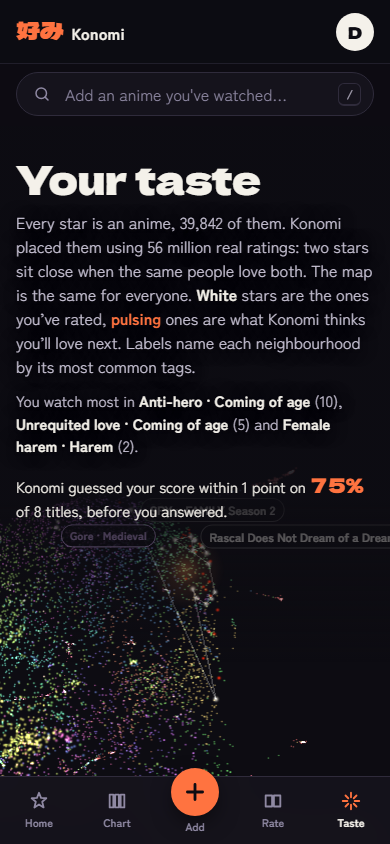
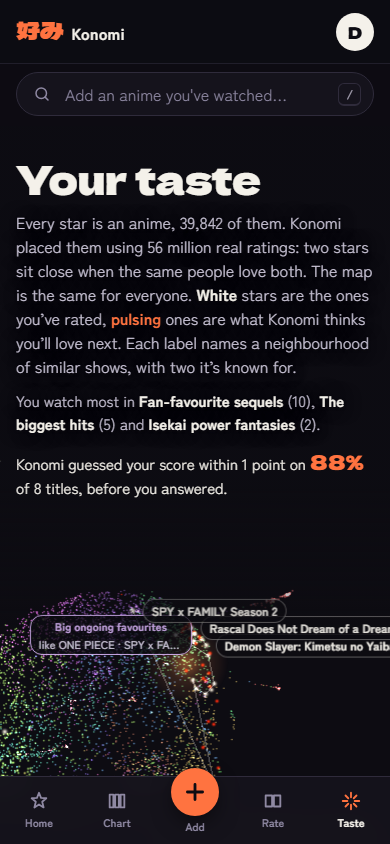
Galaxy: one click opens one title; plain neighbourhood names with examples

Changed region(s): [[0.0, 0.4005, 1.0, 0.9242], [0.9231, 0.4005, 0.9538, 0.4313], [0.5846, 0.8318, 0.6154, 0.8626]]

diff --git a/web/src/features/taste/Galaxy.tsx b/web/src/features/taste/Galaxy.tsx
@@ -4,7 +4,7 @@ import { useEffect, useMemo, useRef, useState } from 'react'
 import * as THREE from 'three'
 
 export type Point = [id: number, x: number, y: number, z: number, cluster: number]
-export interface ClusterMeta { id: number; label: string; tags: string[]; size: number }
+export interface ClusterMeta { id: number; label: string; tags: string[]; size: number; name: string; examples: string[] }
 
 const SCALE = 6
 
@@ -85,7 +85,9 @@ function Stars({ points, mine, recs, accent, onHover, onPick }: {
       onPointerMove={(e) => { e.stopPropagation(); onHover(idx(e), { x: e.nativeEvent.clientX, y: e.nativeEvent.clientY }) }}
       onPointerOut={() => onHover(null)}
       // A drag to turn the galaxy ends with a release over some star: only a still press counts as a click.
-      onClick={(e) => { if (e.delta > 6) return; const id = idx(e); if (id != null) onPick(id) }}>
+      // One click is one title: the pointer hits many overlapping stars, and each would otherwise fire its own
+      // click (and push its own page, so Back walked through dozens of titles). The first hit is the nearest star.
+      onClick={(e) => { e.stopPropagation(); if (e.delta > 6) return; const id = idx(e); if (id != null) onPick(id) }}>
       <shaderMaterial ref={mat} vertexShader={vert} fragmentShader={frag} uniforms={uniforms}
         transparent depthWrite={false} blending={THREE.AdditiveBlending} />
     </points>
@@ -141,7 +143,7 @@ function Constellation({ byId, top }: { byId: Map<number, Point>; top: number[] 
 }
 
 /** A label pinned to a point in space, drawn as plain HTML over the canvas. */
-interface Tag { key: string; at: THREE.Vector3; text: string; kind: 'cluster' | 'name'; color?: string }
+interface Tag { key: string; at: THREE.Vector3; text: string; kind: 'cluster' | 'name'; color?: string; sub?: string }
 
 /**
  * Moves the HTML labels to where their points sit on screen, every frame.
@@ -196,7 +198,7 @@ function clusterTags(points: Point[], clusters: ClusterMeta[]): Tag[] {
     if (!s) continue
     const at = new THREE.Vector3(s[0] / s[3], s[1] / s[3], s[2] / s[3]).multiplyScalar(SCALE)
     if (placed.some((p) => Math.hypot(p.at.x - at.x, p.at.y - at.y) < 2.8)) continue
-    placed.push({ key: `c${c.id}`, at, text: c.label, kind: 'cluster', color: `#${clusterColor(c.id).getHexString()}` })
+    placed.push({ key: `c${c.id}`, at, text: c.name ?? c.label, sub: c.examples?.join(' · '), kind: 'cluster', color: `#${clusterColor(c.id).getHexString()}` })
     if (placed.length === 7) break
   }
   return placed
@@ -233,7 +235,9 @@ export function GalaxyCanvas({ points, clusters, mine, recs, centroid, accent, n
       {tags.map((t) => (
         <span key={t.key} className="g-tag" style={{ visibility: 'hidden' }}
           ref={(el) => { if (el) els.current.set(t.key, el); else els.current.delete(t.key) }}>
-          <span className={t.kind === 'cluster' ? 'g-label' : 'g-name'} style={t.color ? { color: t.color } : undefined}>{t.text}</span>
+          <span className={t.kind === 'cluster' ? 'g-label' : 'g-name'} style={t.color ? { color: t.color } : undefined}>
+            {t.text}{t.sub && <small className="g-label-ex">like {t.sub}</small>}
+          </span>
         </span>
       ))}
     </div>

diff --git a/web/src/features/taste/TastePage.tsx b/web/src/features/taste/TastePage.tsx
@@ -129,7 +129,7 @@ export default function TastePage() {
     const cluster = new Map(galaxy.data.points.map((p) => [p[0], p[4]]))
     const n = new Map<number, number>()
     for (const id of mine.keys()) { const c = cluster.get(id); if (c != null) n.set(c, (n.get(c) ?? 0) + 1) }
-    const label = new Map(galaxy.data.clusters.map((c) => [c.id, c.label]))
+    const label = new Map(galaxy.data.clusters.map((c) => [c.id, c.name ?? c.label]))
     return [...n].sort((a, b) => b[1] - a[1]).slice(0, 3).map(([c, k]) => ({ label: label.get(c) ?? '', n: k })).filter((h) => h.label)
   }, [galaxy.data, mine])
   const recSet = useMemo(() => new Set(me.data?.recs ?? []), [me.data])
@@ -154,7 +154,7 @@ export default function TastePage() {
               ? <>Rate a few anime and yours light up here in <span className="g-key g-key-mine">white</span>.</>
               : <><span className="g-key g-key-mine">White</span> stars are the ones you’ve rated,
                 <span className="g-key g-key-rec"> pulsing</span> ones are what Konomi thinks you’ll love next.</>}
-            {' '}Labels name each neighbourhood by its most common tags.
+            {' '}Each label names a neighbourhood of similar shows, with two it’s known for.
           </p>
           {hoods.length > 0 && (
             <p className="g-hoods">

diff --git a/web/src/features/taste/taste.css b/web/src/features/taste/taste.css
@@ -97,3 +97,5 @@
 .g-tags { position: absolute; inset: 0; pointer-events: none; overflow: hidden; z-index: 1; }
 .g-tag { position: absolute; left: 0; top: 0; will-change: transform; }
 .g-tag > .g-label { transform: translate(-50%, -50%); }
+.g-label-ex { display: block; margin-top: 1px; font-size: 11px; font-weight: 500; color: var(--paper-2); max-width: 36ch; overflow: hidden; text-overflow: ellipsis; }
+.g-tag > .g-label { text-align: center; border-radius: 12px; }

diff --git a/api/konomi_api/taste/routes.py b/api/konomi_api/taste/routes.py
@@ -1,4 +1,5 @@
 import gzip
+import hashlib
 import json
 import threading
 from collections import OrderedDict
@@ -10,6 +11,7 @@ from ..catalog.routes import brief
 from ..deps import CurrentUser, Db
 from ..models import Anime, ListEntry
 from .engine import MIN_POSITIVES, get_engine
+from .cluster_names import name_for
 from .service import user_entries
 
 router = APIRouter(prefix="/api/taste", tags=["taste"])
@@ -89,15 +91,30 @@ def dna(user: CurrentUser, db: Db) -> dict:
                        lambda: {"axes": eng.dna(entries), "need": max(0, MIN_POSITIVES - eng.positives(entries))})
 
 
+def _named_clusters(db, eng, points: list[list]) -> list[dict]:
+    """Each neighbourhood with a plain name and the two best-known titles in it."""
+    cluster_of = {p[0]: p[4] for p in points}
+    examples: dict[int, list[str]] = {}
+    for aid, en, title in db.execute(select(Anime.id, Anime.title_en, Anime.title)
+                                     .order_by(Anime.popularity.desc()).limit(6000)).all():
+        c = cluster_of.get(aid)
+        if c is not None and len(examples.setdefault(c, [])) < 2:
+            examples[c].append(en or title)
+    return [c | {"name": name_for(eng.version, c["id"], examples.get(c["id"], [])), "examples": examples.get(c["id"], [])}
+            for c in eng.clusters_meta]
+
+
 @router.get("/galaxy")
-def galaxy(request: Request) -> Response:
+def galaxy(request: Request, db: Db) -> Response:
     global _galaxy
     eng = _engine()
     if _galaxy is None or _galaxy["version"] != eng.version:
-        body = json.dumps({"points": eng.galaxy_points(), "clusters": eng.clusters_meta},
+        points = eng.galaxy_points()
+        body = json.dumps({"points": points, "clusters": _named_clusters(db, eng, points)},
                           separators=(",", ":")).encode()
-        _galaxy = {"version": eng.version, "gz": gzip.compress(body, 6)}
-    etag = f'"g{_galaxy["version"]}"'
+        # The tag follows the content, not only the model: renamed neighbourhoods reach browsers that cached the old ones.
+        _galaxy = {"version": eng.version, "gz": gzip.compress(body, 6), "etag": f'"g{hashlib.sha1(body).hexdigest()[:16]}"'}
+    etag = _galaxy["etag"]
     if request.headers.get("if-none-match") == etag:
         return Response(status_code=304, headers={"ETag": etag})
     return Response(_galaxy["gz"], media_type="application/json",

diff --git a/api/konomi_api/taste/cluster_names.py b/api/konomi_api/taste/cluster_names.py
@@ -1,0 +1,43 @@
+"""Plain names for the galaxy's neighbourhoods.
+
+Clusters group anime by who watches them, not by genre, so tag-based labels misled ("Unrequited love" over
+Attack on Titan and Jujutsu Kaisen). These names were chosen by reading each cluster's best-known titles, for one
+model version. A retrained model gets new clusters; until it is named here, labels fall back to the cluster's
+best-known title, which is always true.
+"""
+
+NAMES: dict[str, dict[int, str]] = {
+    "202611011150": {
+        0: "Classic ecchi rom-coms",
+        1: "Newer titles, few ratings yet",
+        2: "Long-running classics",
+        3: "Harem action",
+        4: "Old-school cult classics",
+        5: "The biggest hits",
+        6: "Moody and strange",
+        7: "Airing now and recent",
+        8: "Modern hits",
+        9: "Supernatural romance",
+        10: "All-time classics",
+        11: "Fan-favourite sequels",
+        12: "Isekai and game worlds",
+        13: "Girls with guns and guitars",
+        14: "Recent fantasy",
+        15: "Franchise spin-offs",
+        16: "Hit sequels",
+        17: "Arthouse and literary",
+        18: "Mecha and sci-fi",
+        19: "Cute and cozy",
+        20: "Big ongoing favourites",
+        21: "Boys' love and shoujo",
+        22: "Isekai power fantasies",
+        23: "Fan-service comedies",
+    },
+}
+
+
+def name_for(version: str, cluster: int, examples: list[str]) -> str:
+    named = NAMES.get(str(version), {}).get(cluster)
+    if named:
+        return named
+    return f"Near {examples[0]}" if examples else "Unnamed corner"

diff --git a/api/tests/test_taste.py b/api/tests/test_taste.py
@@ -149,3 +149,15 @@ def test_recs_are_cached_until_the_list_changes(client, monkeypatch):
     client.put(f"/api/list/{aid}", json={"status": "completed"})
     client.get("/api/taste/recs")
     assert len(calls) == 2  # a changed list means fresh recommendations
+
+
+def test_galaxy_clusters_have_plain_names_and_examples(client):
+    meta = client.get("/api/taste/galaxy").json()["clusters"]
+    assert meta and all(c["name"] and isinstance(c["examples"], list) for c in meta)
+    assert any(len(c["examples"]) == 2 for c in meta)
+
+
+def test_unnamed_model_falls_back_to_a_true_label():
+    from konomi_api.taste.cluster_names import name_for
+    assert name_for("some-other-version", 3, ["Death Note", "Naruto"]) == "Near Death Note"
+    assert name_for("some-other-version", 3, []) == "Unnamed corner"
